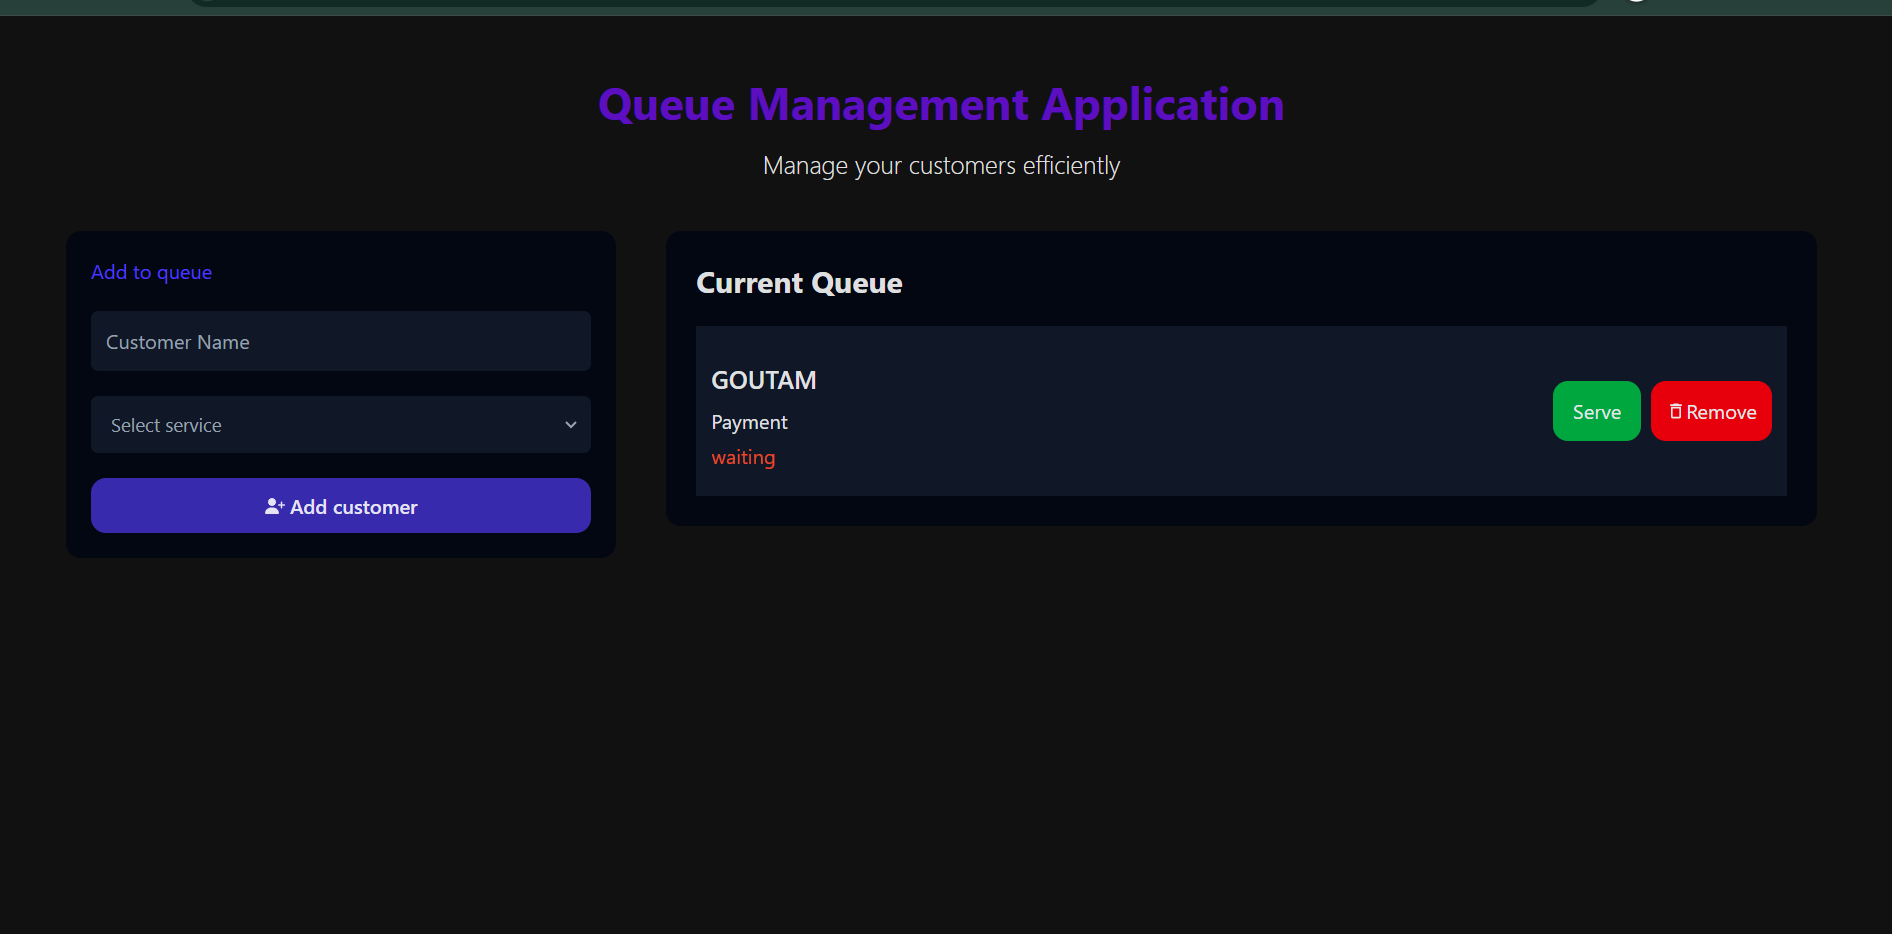
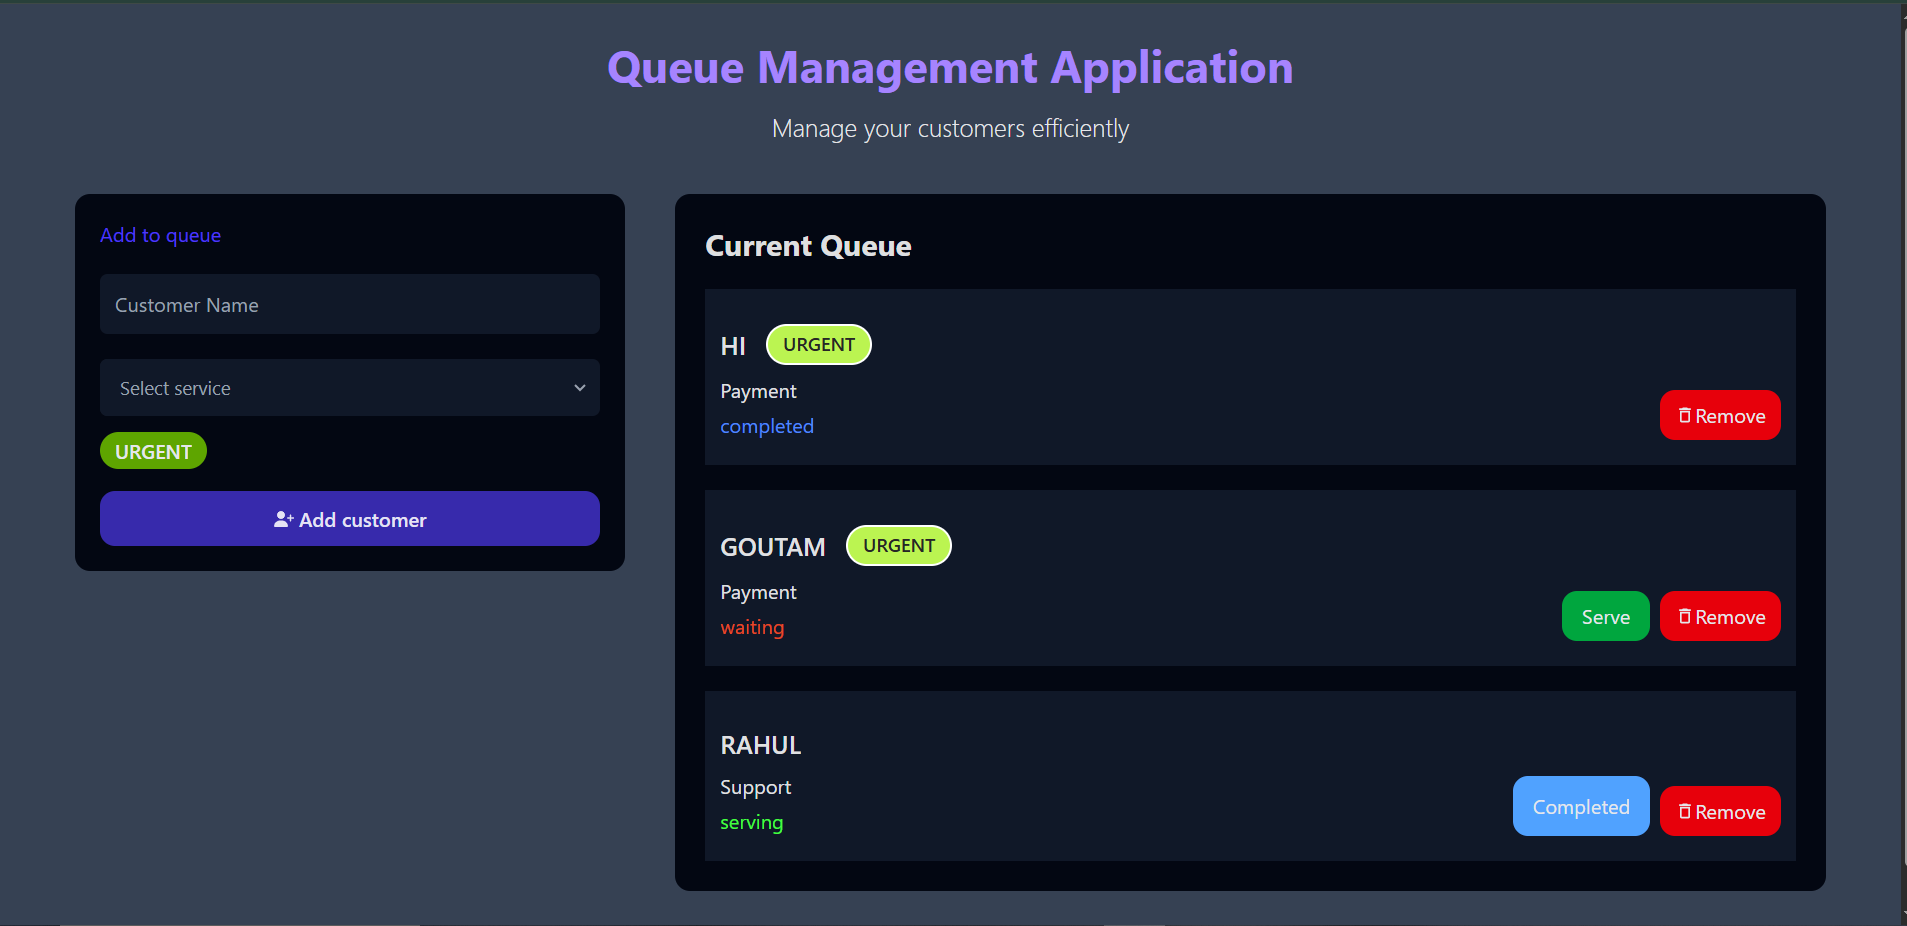
Added a urgent tag feature

diff --git a/13_QueueManagement/src/components/Display.jsx b/13_QueueManagement/src/components/Display.jsx
@@ -23,21 +23,27 @@ const Display = ({ queue, onUpdate , onRemove}) => {
               {queue.map((customer) => (
                 <div
                   key={customer.id}
-                  className="bg-gray-900 h-fit mt-5 max-w-full p-3 flex items-center justify-between"
+                  className="bg-gray-900 h-fit mt-5 max-w-full p-3 flex  justify-between"
                 >
                   <div className="my-2">
-                    <div className="my-2 font-semibold md:text-xl ">
-                      {customer.name.toUpperCase()}
+                    <div className="my-2 font-semibold md:text-xl flex flex-row justify-end w-full gap-4 items-center ">
+                      <span>{customer.name.toUpperCase()}</span>
+
+                      {customer.urgent && (
+                        <div className="bg-lime-300 px-3 py-1 rounded-full border-2 border-white text-neutral-800 text-sm">
+                           URGENT
+                        </div>
+                      )}
                     </div>
                     <p className="my-1">{customer.service}</p>
                     <span style={{ color: getStatusColour(customer.status) }}>
                       {customer.status}
                     </span>
                   </div>
-                  <div className=" flex gap-2">
+                  <div className=" flex gap-2 items-end">
                     {customer.status === "waiting" && (
                       <button
-                        className="my-2 text-gray-200 bg-green-600 px-4 py-3 rounded-xl cursor-pointer hover:bg-green-700 duration-200"
+                        className="my-2 text-gray-200 bg-green-600 px-4 py-2 rounded-xl cursor-pointer hover:bg-green-700 duration-200"
                         onClick={() => onUpdate(customer.id, "serving")}
                       >
                         Serve
@@ -45,16 +51,18 @@ const Display = ({ queue, onUpdate , onRemove}) => {
                     )}
                     {customer.status === "serving" && (
                       <button
-                        className="my-2 text-gray-200 bg-blue-400 px-4 py-3 rounded-xl cursor-pointer hover:bg-blue-600 duratio-200"
+                        className="my-2 text-gray-200 bg-blue-400 px-4 py-3 rounded-xl cursor-pointer hover:bg-blue-600 duration-200"
                         onClick={() => onUpdate(customer.id, "completed")}
                       >
                         Completed
                       </button>
                     )}
                     <button
-                      className="my-2 flex items-center justify-center text-gray-200 bg-red-600 px-3 py-3 rounded-xl cursor-pointer hover:bg-red-700 duration-200"
+                      className="my-2 flex items-center justify-center text-gray-200 bg-red-600 px-3 py-2 rounded-xl cursor-pointer hover:bg-red-700 duration-200"
                       onClick={() => onRemove(customer.id)}
-                    > <MdOutlineDelete/>
+                    >
+                      {" "}
+                      <MdOutlineDelete />
                       Remove
                     </button>
                   </div>

diff --git a/13_QueueManagement/src/components/QueueForm.jsx b/13_QueueManagement/src/components/QueueForm.jsx
@@ -4,15 +4,17 @@ import { IoIosArrowDropdown } from "react-icons/io";
 const QueueForm = ({ onAdd }) => {
   const [name, setName]=useState('');
   const [service, setService]=useState('');
+  const [urgent, setUrgent]=useState(false);
   const handleSubmit=(e)=>{
       e.preventDefault();
       if(!name.trim() || !service.trim()){
         alert("All the fields are required");
         return ;
       }
-      onAdd({name, service});
+      onAdd({name, service, urgent});
       setName('');
       setService('');
+      setUrgent(false)
   }
   return (
     <>
@@ -30,7 +32,7 @@ const QueueForm = ({ onAdd }) => {
             className="w-full p-3 placeholder:text-gray-400 bg-gray-900 appearance-none rounded-md focus:outline-2 focus:-outline-offset-2 focus:outline-indigo-500"
           />
         </div>
-        <div className=" bg-gray-900 pr-2  rounded-md ">
+        <div className=" bg-gray-900 pr-2 mb-4 rounded-md ">
           <select
             value={service}
             onChange={(e) => setService(e.target.value)}
@@ -51,6 +53,19 @@ const QueueForm = ({ onAdd }) => {
             </svg>
           </div> */}
         </div>
+
+        <span
+          className={`${
+            urgent
+              ? "bg-lime-600 hover:bg-lime-700"
+              : " bg-gray-500 hover:bg-gray-600"
+          }  px-3 py-1 rounded-full  transition duration-200 cursor-pointer font-semibold text-gray-200`}
+          
+          onClick={() => setUrgent((prev)=>!prev)}
+        >
+          URGENT
+        </span>
+
         <button
           type="submit"
           className="w-full border-none p-3 flex items-center justify-center gap-1 rounded-xl h-11 text-l font-semibold bg-indigo-800 mt-5 cursor-pointer hover:opacity-90"

diff --git a/13_QueueManagement/src/App.jsx b/13_QueueManagement/src/App.jsx
@@ -6,8 +6,18 @@ const App = () => {
   const [queue, setQueue] = useState([]);
   const addToQueue = (customer) => {
     //adding data to queue
-    setQueue([...queue, { ...customer, id: Date.now(), status: "waiting" }]);
-    console.log(queue);
+    const newCustomer = {
+      ...customer,
+      id: Date.now(),
+      status: "waiting",
+    };
+    console.log(customer.urgent);
+    setQueue((prev)=>{
+      if(customer.urgent){
+        return [newCustomer, ...prev]
+      }
+      return [...prev, newCustomer]
+    });
   };
 
   const updateStatus = (id, newStatus) => {
@@ -25,10 +35,10 @@ const App = () => {
   };
   return (
     <>
-      <div className="w-full mt-10">
+      <div className="w-full bg-gray-700 py-5">
         <header className="text-center mb-5">
           <div>
-            <h1 className="font-bold text-4xl text-violet-800 hover:text-violet-600 transition-all duration-200 p-2">
+            <h1 className="font-bold text-4xl text-violet-400 hover:text-violet-500 transition-all duration-200 p-2">
               Queue Management Application
             </h1>
             <p className="font-extralight text-xl mt-2">
